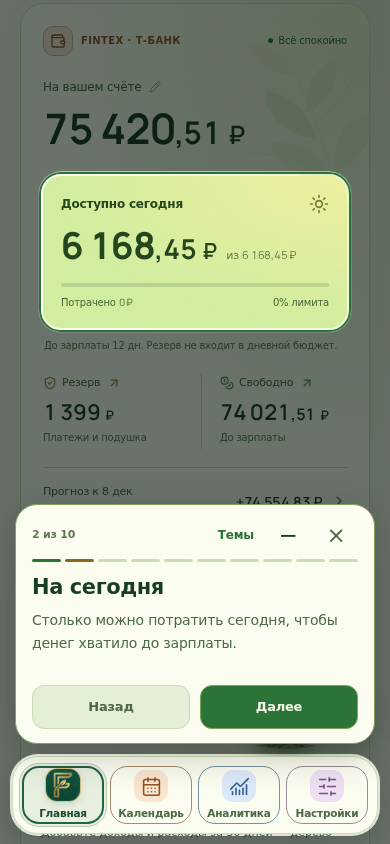
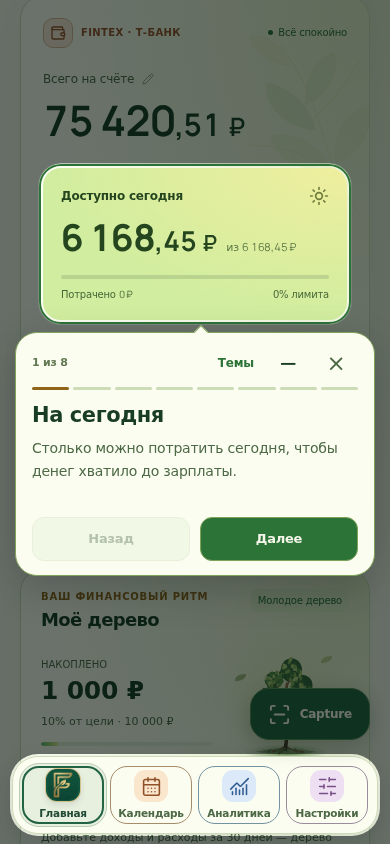
Streamline the tour, add contextual help and clarify money with mobile layout polish

diff --git a/app-tour.js b/app-tour.js
@@ -3,20 +3,18 @@
 (() => {
   'use strict';
   if (window.FintexTour) return;
-  const KEY = 'fp_tour_v1', CHECKPOINT = 'fp_tour_step_v1';
+  const KEY = 'fp_tour_v1', CHECKPOINT = 'fp_tour_step_v2';
   const media = matchMedia('(prefers-reduced-motion: reduce)');
   const root = document.documentElement;
   const steps = [
-    {tab:'home',chapter:'Начало',title:'Покажем, что где',text:'Разделы — внизу. Нажмите на любой, чтобы посмотреть.'},
-    {tab:'home',target:'#hero-daily-budget',chapter:'На сегодня',title:'На сегодня',text:'Столько можно потратить сегодня, чтобы денег хватило до зарплаты.'},
-    {tab:'home',target:'#hdr-plus-btn, #capture-fab',chapter:'Добавить',title:'Добавить операцию',text:'Нажмите «+», чтобы записать доход, расход или добавить чек.'},
-    {tab:'home',target:'.tx-feed-header',chapter:'История',title:'История операций',text:'Здесь все доходы и расходы. Нажмите на запись, чтобы открыть детали.'},
-    {tab:'calendar',target:'#cal-cells',chapter:'Календарь',title:'Календарь',text:'Выберите день, чтобы посмотреть траты и платежи.'},
-    {tab:'analytics',target:'.ap-cashflow, #view-analytics h2',chapter:'Аналитика',title:'Аналитика',text:'Здесь видно, на что уходят деньги и как меняются расходы.'},
-    {tab:'home',target:'#savings-goals .sg-card, #savings-goals .sg-heading, #savings-goals',chapter:'Цели',title:'Цели',text:'Создайте цель и откладывайте на неё деньги.'},
-    {tab:'home',target:'.ft-art-wrap',chapter:'Дерево',title:'Дерево',text:'Дерево меняется от доходов и расходов. Его можно потрясти.'},
-    {tab:'settings',target:'#settings-guide',chapter:'Настройки',title:'Настройки',text:'Здесь можно сменить тему и снова открыть экскурсию.'},
-    {tab:'settings',chapter:'Готово',title:'Всё готово',text:'Если что-то забудете, экскурсия есть в настройках.'}
+    {id:'budget',tab:'home',compact:'#hero-daily-budget .daily-budget-header, .daily-budget-label',target:'#hero-daily-budget',chapter:'На сегодня',title:'На сегодня',text:'Столько можно потратить сегодня, чтобы денег хватило до зарплаты.'},
+    {id:'add',tab:'home',target:'#hdr-plus-btn, #capture-fab',chapter:'Добавить',title:'Добавить операцию',text:'Нажмите «+», чтобы записать доход, расход или добавить чек.'},
+    {id:'history',tab:'home',target:'.tx-feed-header',chapter:'История',title:'История операций',text:'Здесь все доходы и расходы. Нажмите на запись, чтобы открыть детали.'},
+    {id:'calendar',tab:'calendar',compact:'#cal-cells .is-selected, #cal-cells .is-today, #view-calendar h2',target:'#cal-cells',chapter:'Календарь',title:'Календарь',text:'Выберите день, чтобы посмотреть траты и платежи.'},
+    {id:'analytics',tab:'analytics',compact:'.ap-cashflow-heading, #view-analytics h2',target:'.ap-cashflow',chapter:'Аналитика',title:'Аналитика',text:'Здесь видно, на что уходят деньги и как меняются расходы.'},
+    {id:'goals',tab:'home',compact:'#savings-goals .sg-heading',target:'#savings-goals .sg-card, #savings-goals .sg-heading, #savings-goals',chapter:'Цели',title:'Цели',text:'Создайте цель и откладывайте на неё деньги.'},
+    {id:'tree',tab:'home',compact:'#filely-financial-tree h2, .ft-art-wrap',target:'.ft-art-wrap',chapter:'Дерево',title:'Дерево',text:'Дерево меняется от доходов и расходов. Его можно потрясти.'},
+    {id:'settings',tab:'settings',compact:'#tour-replay, #tour-settings-title',target:'#settings-guide',chapter:'Настройки',title:'Настройки',text:'Здесь можно сменить тему и снова открыть экскурсию.'},
   ];
   let dialog, panel, focusBox, scrim, index = 0, active = false, epoch = 0, mapOpen = false, peeking = false;
   const visited = new Set();
@@ -25,23 +23,27 @@
   const save = value => { try { localStorage.setItem(KEY,value); } catch (_) { /* Tour still works without storage. */ } };
   function checkpoint(clear = false) {
     try {
-      if (clear) localStorage.removeItem(CHECKPOINT);
-      else if (automatic) localStorage.setItem(CHECKPOINT,String(index));
+      if (clear) { localStorage.removeItem(CHECKPOINT); localStorage.removeItem('fp_tour_step_v1'); }
+      else if (automatic) localStorage.setItem(CHECKPOINT,steps[index].id);
     } catch (_) { /* Navigation never depends on writable storage. */ }
   }
   function savedStep() {
     try {
-      const raw = localStorage.getItem(CHECKPOINT);
-      return /^(?:[0-9])$/.test(raw || '') ? Number(raw) : 0;
+      const id = localStorage.getItem(CHECKPOINT);
+      if (id !== null) return Math.max(0,steps.findIndex(step=>step.id===id));
+      // v70 used ten numeric positions, including intro/outro. Migrate only
+      // unfinished routes; existing complete/skipped users are not interrupted.
+      const legacy = localStorage.getItem('fp_tour_step_v1');
+      return /^[0-9]$/.test(legacy || '') ? Math.max(0,Math.min(7,Number(legacy)-1)) : 0;
     } catch (_) { return 0; }
   }
   const moves = () => !media.matches && !root.classList.contains('no-motion');
   const visible = el => el && !!el.getClientRects().length && getComputedStyle(el).visibility !== 'hidden';
-  function targetFor(step) {
+  function targetFor(step, maximum = Infinity) {
     // Comma-separated selectors are ordered fallbacks, not document order:
     // Prefer the + in the header and the compact goal heading.
-    for (const selector of (step.target || '').split(',').filter(Boolean)) {
-      const target = [...document.querySelectorAll(selector.trim())].find(visible);
+    for (const selector of [step.target,step.compact].filter(Boolean).join(',').split(',').filter(Boolean)) {
+      const target = [...document.querySelectorAll(selector.trim())].find(el=>visible(el)&&el.getBoundingClientRect().height<=maximum);
       if (target) return target;
     }
     return null;
@@ -84,7 +86,7 @@
   }
   function layout(scroll = false) {
     if (!active) return;
-    const step = steps[index], target = mapOpen ? null : targetFor(step);
+    const step = steps[index];
     const vw = document.documentElement.clientWidth, vh = innerHeight;
     const nav = document.querySelector('#fintex-navigation > div');
     const dock = visible(nav) ? nav.getBoundingClientRect() : null;
@@ -92,21 +94,31 @@
     const width = Math.min(360,vw-24);
     panel.style.width = `${width}px`;
     panel.style.maxHeight = `${Math.max(64,bottom-12)}px`;
-    const height = panel.offsetHeight, top = Math.max(12,bottom-height);
-    panel.style.left = `${(vw-width)/2}px`;
-    panel.style.top = `${top}px`;
+    const height = panel.offsetHeight;
+    let top = Math.max(12,bottom-height), placement = 'bottom';
+    const target = mapOpen ? null : targetFor(step,Math.max(24,bottom-height-24));
     let rect = target?.getBoundingClientRect();
     let fixed = false;
     for (let el = target; el; el = el.parentElement) if (getComputedStyle(el).position === 'fixed') { fixed = true; break; }
     if (scroll && target && !fixed) {
-      const desired = Math.max(12,(top-rect.height)/2);
+      const desired = Math.max(12,(bottom-height-rect.height-12)/2);
       window.scrollTo({top:Math.max(0,scrollY+rect.top-desired),behavior:'instant'});
       rect = target.getBoundingClientRect();
     }
+    // Prefer a nearby card, above or below the element, with no overlap.
+    if(rect && !mapOpen){
+      if(rect.bottom+12>=12&&rect.bottom+12+height<=bottom){top=rect.bottom+12;placement='below';}
+      else if(rect.top-height-12>=12){top=rect.top-height-12;placement='above';}
+    }
+    panel.style.left = `${(vw-width)/2}px`;
+    top = Math.max(12,Math.min(bottom-height,top));
+    panel.style.top = `${top}px`;
+    dialog.dataset.placement = placement;
+    const separated = rect && (rect.bottom+8<=top || top+height+8<=rect.top);
     // Separate cutouts keep both the real target AND the real section dock clear.
     let path = `M0,0H${vw}V${vh}H0z`;
     if(dock) path += rounded({x:dock.left-2,y:dock.top-2,width:dock.width+4,height:dock.height+4},28);
-    const ring = !!(rect && rect.width > 0 && rect.height > 0 && rect.top >= 8 && rect.bottom <= top-12 && rect.left >= 4 && rect.right <= vw-4);
+    const ring = !!(rect && rect.width > 0 && rect.height > 0 && rect.top >= 8 && rect.bottom <= bottom-4 && separated && rect.left >= 4 && rect.right <= vw-4);
     if (ring) {
       const pad = 4, radius = Math.min(24,parseFloat(getComputedStyle(target).borderTopLeftRadius)||8)+pad;
       const box = {x:rect.left-pad,y:rect.top-pad,width:rect.width+pad*2,height:rect.height+pad*2};
@@ -114,6 +126,7 @@
       path += rounded(box,radius);
     }
     focusBox.hidden = !ring;
+    panel.style.setProperty('--tour-pointer-x',`${rect?Math.max(18,Math.min(width-24,(rect.left+rect.right)/2-(vw-width)/2)):width/2}px`);
     scrim.setAttribute('d',path);
     dialog.dataset.spotlight = String(ring);
     dialog.querySelectorAll('[data-tour-tab]').forEach(button=>{
@@ -153,7 +166,7 @@
       button.querySelector('.tour-map-state').textContent=i===index?'•':visited.has(i)?'✓':'';
     });
     dialog.querySelector('#tour-back').disabled = index === 0;
-    dialog.querySelector('#tour-next').textContent = index === steps.length-1 ? 'Готово' : index === 0 ? 'Начать' : 'Далее';
+    dialog.querySelector('#tour-next').textContent = index === steps.length-1 ? 'Готово' : 'Далее';
     focusBox.hidden = true;
     if (document.querySelector('.nav-tab[aria-current="page"]')?.dataset.nav !== step.tab) window.goTab(step.tab);
     // Wait for real section/module layout, not a fake loading timer.
@@ -180,9 +193,11 @@
     active = false; epoch++; observer?.disconnect();
     cancelAnimationFrame(frame); frame = null; stopEffect();
     if (persist) { save(status); checkpoint(true); }
+    const topics = [...visited].map(i=>steps[i].id);
     dialog.close(); focusBox.hidden = true;
     root.classList.remove('fintex-tour-open');
     document.body.style.overflow = overflow;
+    if (persist) window.dispatchEvent(new CustomEvent('fintex:tour-finished',{detail:{topics}}));
     if (!restore) return;
     const tab = automatic ? 'home' : origin.tab;
     window.goTab(tab);
@@ -197,6 +212,7 @@
     window.FintexEntrance?.dismiss(true);
     window.cancelTxSwipe?.(); window.cancelGoalHold?.();
     automatic = auto; visited.clear();
+    window.dispatchEvent(new Event('fintex:tour-started'));
     origin = {tab:document.querySelector('.nav-tab[aria-current="page"]')?.dataset.nav || 'home',scroll:scrollY,focus:document.activeElement};
     overflow = document.body.style.overflow;
     document.body.style.overflow = 'hidden';
@@ -219,7 +235,7 @@
     dialog.querySelector('#tour-peek').addEventListener('click',()=>{if(mapOpen)toggleMap(false,false);setPeek(!peeking);});
     dialog.querySelector('.tour-sections').addEventListener('click',event=>{
       const button = event.target.closest('[data-tour-tab]');
-      if(button)go({home:1,calendar:4,analytics:5,settings:8}[button.dataset.tourTab]);
+      if(button)go({home:0,calendar:3,analytics:4,settings:7}[button.dataset.tourTab]);
     });
     dialog.querySelector('#tour-map-toggle').addEventListener('click',()=>toggleMap(!mapOpen));
     dialog.querySelector('#tour-map').addEventListener('click',event=>{

diff --git a/design-system.css b/design-system.css
@@ -2107,3 +2107,44 @@ body #fintex-tour[data-peek=true] .tour-panel { height: 64px; }
 body #fintex-tour .tour-tools #tour-skip, body #fintex-tour .tour-tools #tour-peek { width: 44px; padding: 0; font-size: 23px; font-weight: 400; }
 body #fintex-tour .tour-sections button { position: fixed; margin: 0; padding: 0; border: 0; border-radius: 20px; background: transparent !important; box-shadow: none; }
 body #fintex-tour .tour-sections button:focus-visible { outline: 2px solid var(--accent); outline-offset: -2px; }
+
+/* v71 · nearby help, short labels and small-screen polish. */
+body #fintex-tour .tour-panel { height: 244px; }
+body #fintex-tour[data-map=true] .tour-panel { height: 380px; }
+body #fintex-tour[data-peek=true] .tour-panel { height: 64px; }
+body #fintex-tour[data-spotlight=true]:not([data-map=true]):not([data-peek=true]) .tour-panel::before { content: ''; position: absolute; width: 10px; height: 10px; left: var(--tour-pointer-x,50%); background: var(--surface-1); transform: rotate(45deg); }
+body #fintex-tour[data-placement=below] .tour-panel::before { top: -6px; border-left: 1px solid var(--border-active); border-top: 1px solid var(--border-active); }
+body #fintex-tour[data-placement=above] .tour-panel::before { bottom: -6px; border-right: 1px solid var(--border-active); border-bottom: 1px solid var(--border-active); }
+body #fintex-tour[data-placement=bottom] .tour-panel::before { display: none; }
+body .context-help { display: flex; align-items: center; gap: 10px; padding: 8px 10px 8px 13px; margin-bottom: 12px; border: 1px solid var(--border-active); border-left: 3px solid var(--accent); border-radius: 13px; background: var(--accent-soft); color: var(--text-primary); }
+body .context-help p { flex: 1; min-width: 0; font-size: 12px; line-height: 1.55; }
+body .context-help button { flex-shrink: 0; min-width: 64px; min-height: 44px; padding: 8px; border-radius: 9px; color: var(--accent); font-size: 11px; font-weight: 700; }
+body .context-help button:focus-visible { outline: 2px solid var(--accent); outline-offset: -2px; }
+body .balance-detail-label { min-height: 30px; align-content: start; }
+body .balance-detail-note { line-height: 1.5; }
+body #modal-add :is(input,button), body .sg-dialog :is(input,select,textarea,button) { min-width: 0; }
+body #modal-add :is(input,button), body .sg-photo-actions > :is(label,button) { min-height: 44px; }
+body #modal-add input[type=date] { max-width: 58%; }
+body .sg-photo-actions { flex-wrap: wrap; }
+body .sg-detail-progress strong { overflow-wrap: anywhere; }
+body .ap-comparison strong { white-space: normal; overflow-wrap: anywhere; }
+body .ap-cashflow-label:has(.number-display:is([data-number-size=medium],[data-number-size=wide])) { grid-template-columns: 30px minmax(0,1fr); }
+body .ap-cashflow-label:has(.number-display:is([data-number-size=medium],[data-number-size=wide])) > strong { grid-column: 2; justify-self: start; text-align: left; }
+body .ap-cashflow-label:has(.number-display:is([data-number-size=medium],[data-number-size=wide])) .ap-cashflow-icon { grid-row: span 2; }
+@media(max-height:500px) {
+  body #fintex-tour .tour-panel { height: 208px; padding: 6px 14px 10px; }
+  body #tour-title { font-size: 18px; }
+  body #tour-text { font-size: 12px; line-height: 1.45; margin-top: 5px; }
+  body #fintex-tour .tour-progress { margin-bottom: 8px; }
+  body #fintex-tour .tour-actions { padding-top: 6px; }
+  body #fintex-tour[data-map=true] .tour-panel { height: 380px; }
+  body #fintex-tour[data-peek=true] .tour-panel { height: 64px; }
+}
+@media(max-width:360px) {
+  body #modal-add .modal-sheet { padding: 16px; }
+  body .balance-detail-label { font-size: 10px; gap: 4px; }
+}
+/* Keep the detail arrow on the label row, not alone on a wrapped line. */
+body .balance-detail-label { display: grid; grid-template-columns: 14px minmax(0,1fr) 12px; gap: 4px; align-items: start; }
+body .balance-detail-label > svg { width: 14px; height: 14px; margin-top: 2px; }
+body .balance-detail-label > .balance-detail-arrow { width: 12px; height: 12px; }

diff --git a/context-help.js b/context-help.js
@@ -1,0 +1,56 @@
+/* One short, non-modal hint at the point of use. Only help preferences are saved. */
+(() => {
+  'use strict';
+  const KEY = 'fp_help_v1';
+  const topics = {
+    calendar:{root:'#view-calendar',text:'Нажмите на день — увидите его траты и платежи.'},
+    analytics:{root:'#view-analytics',text:'Выберите период, чтобы сравнить доходы и расходы.'},
+    goals:{root:'#savings-goals',text:'Добавьте цель, затем пополняйте её.'},
+    settings:{root:'#view-settings',text:'В «Что где в Fintex» можно повторить экскурсию.'}
+  };
+  const seen = new Set();
+  try { const saved=JSON.parse(localStorage.getItem(KEY)||'[]');if(Array.isArray(saved))saved.forEach(k=>{if(Object.hasOwn(topics,k))seen.add(k);}); } catch (_) {}
+  let frame;
+  const visible = el => el && el.getClientRects().length && getComputedStyle(el).visibility!=='hidden';
+  const blocked = () => document.hidden || document.documentElement.classList.contains('fintex-tour-open') || !!document.querySelector('dialog[open], [id^="modal-"]:not(.hidden), #onboarding-screen:not(.hidden), #returning-splash:not(.hidden)');
+  function remember(key){seen.add(key);try{localStorage.setItem(KEY,JSON.stringify([...seen]));}catch(_){} }
+  function clear(){document.querySelectorAll('[data-context-help]').forEach(el=>el.remove());}
+  function show(key){
+    if(!topics[key]||seen.has(key)||blocked())return;
+    const mount=document.querySelector(topics[key].root);
+    if(!visible(mount))return;
+    const card=document.createElement('aside');card.className='context-help';card.dataset.contextHelp=key;card.setAttribute('aria-label','Подсказка');
+    const text=document.createElement('p');text.textContent=topics[key].text;
+    const close=document.createElement('button');close.type='button';close.textContent='Понятно';
+    close.addEventListener('click',()=>{
+      // Do not drop keyboard focus onto body when removing its focused button.
+      const next=[...mount.querySelectorAll('button,input,select,summary,[tabindex="0"]')].find(el=>!card.contains(el)&&visible(el));
+      const focused=card.contains(document.activeElement);card.remove();if(focused)next?.focus({preventScroll:true});
+    });
+    card.append(text,close);mount.prepend(card);remember(key);
+  }
+  function checkGoals(){
+    if(blocked()||document.querySelector('.nav-tab[aria-current="page"]')?.dataset.nav!=='home')return;
+    const mount=document.querySelector(topics.goals.root);if(!visible(mount))return;
+    const r=mount.getBoundingClientRect(),dock=document.getElementById('fintex-navigation')?.getBoundingClientRect().top||innerHeight;
+    if(r.top>=0&&r.top<dock-70)show('goals');
+  }
+  function scheduleGoals(){if(frame)return;frame=requestAnimationFrame(()=>{frame=null;checkGoals();});}
+  function boot(){
+    window.addEventListener('fintex:tabchange',event=>{
+      clear();const name=event.detail.name;
+      if(name==='home')scheduleGoals();else requestAnimationFrame(()=>show(name));
+    });
+    window.addEventListener('fintex:tour-started',clear);
+    window.addEventListener('fintex:tour-finished',event=>{
+      for(const id of event.detail.topics||[])if(Object.hasOwn(topics,id))remember(id);
+      clear();
+    });
+    // Only observe the goals section itself; no global DOM polling/observer loop.
+    const goals=document.querySelector(topics.goals.root);
+    if(goals&&window.IntersectionObserver)new IntersectionObserver(scheduleGoals,{threshold:[0,.2]}).observe(goals);
+    window.addEventListener('scroll',scheduleGoals,{passive:true});
+    window.addEventListener('pagehide',()=>{cancelAnimationFrame(frame);frame=null;clear();});
+  }
+  if(document.readyState==='loading')document.addEventListener('DOMContentLoaded',boot,{once:true});else boot();
+})();

diff --git a/index.html b/index.html
@@ -18,7 +18,7 @@
   <script src="./appearance.js?v=62"></script>
   <script src="./cloud.js?v=39"></script>
   <link rel="stylesheet" href="./styles.css?v=22" />
-  <link rel="stylesheet" href="./design-system.css?v=70" />
+  <link rel="stylesheet" href="./design-system.css?v=71" />
 </head>
 <body class="max-w-md mx-auto min-h-screen relative select-none">
 
@@ -263,7 +263,7 @@
             <span id="status-badge" class="balance-status" data-tone="calm">Всё спокойно</span>
           </div>
           <button type="button" onclick="openBalanceModal()" class="balance-total" aria-label="Изменить баланс">
-            <span class="balance-label">На вашем счёте <i data-lucide="pencil" class="w-3 h-3"></i></span>
+            <span class="balance-label">Всего на счёте <i data-lucide="pencil" class="w-3 h-3"></i></span>
             <span id="hero-balance" class="money-val balance-amount">0 ₽</span>
           </button>
           <div class="daily-budget" id="hero-daily-budget">
@@ -281,15 +281,15 @@
           <div id="hero-limit-explain" class="balance-explanation">Свободные средства распределены до зарплаты</div>
           <div class="balance-breakdown">
             <button type="button" onclick="openGoalDetailsModal()" class="balance-detail">
-              <span class="balance-detail-label"><i data-lucide="shield-check" class="w-3.5 h-3.5"></i> Резерв <i data-lucide="arrow-up-right" class="balance-detail-arrow w-3.5 h-3.5"></i></span>
+              <span class="balance-detail-label"><i data-lucide="shield-check" class="w-3.5 h-3.5"></i> Отложено <i data-lucide="arrow-up-right" class="balance-detail-arrow w-3.5 h-3.5"></i></span>
               <span id="hero-reserved" class="money-val balance-detail-amount">0 ₽</span>
-              <span class="balance-detail-note">Платежи и подушка</span>
+              <span class="balance-detail-note">На платежи и цели</span>
               <span id="hero-res-pct" class="hidden"></span>
             </button>
             <button type="button" onclick="openForecastExplainModal()" class="balance-detail">
-              <span class="balance-detail-label"><i data-lucide="coins" class="w-3.5 h-3.5"></i> Свободно <i data-lucide="arrow-up-right" class="balance-detail-arrow w-3.5 h-3.5"></i></span>
+              <span class="balance-detail-label"><i data-lucide="coins" class="w-3.5 h-3.5"></i> Можно тратить <i data-lucide="arrow-up-right" class="balance-detail-arrow w-3.5 h-3.5"></i></span>
               <span id="hero-free-pool" class="money-val balance-detail-amount">0 ₽</span>
-              <span class="balance-detail-note">До зарплаты</span>
+              <span class="balance-detail-note">Без платежей и целей</span>
               <span id="hero-free-pct" class="hidden"></span>
             </button>
           </div>
@@ -1881,7 +1881,7 @@
   <script src="./finance-math.js?v=58"></script>
   <script src="./life-cost.js?v=30"></script>
   <script src="./numerals.js?v=66"></script>
-  <script src="./app.js?v=67"></script>
+  <script src="./app.js?v=71"></script>
   <script src="./navigation.js?v=57"></script>
   <script src="./interface-motion.js?v=59"></script>
   <script src="./modal-accessibility.js?v=60"></script>
@@ -1904,6 +1904,7 @@
   <script src="./capture.js?v=68"></script>
   <script src="./behavior-model.js?v=44"></script>
   <script src="./behavior.js?v=54"></script>
-  <script src="./app-tour.js?v=70"></script>
+  <script src="./app-tour.js?v=71"></script>
+  <script src="./context-help.js?v=71"></script>
 </body>
 </html>

diff --git a/app.js b/app.js
@@ -772,8 +772,8 @@ function renderAll(animateFromZero = false) {
 
   const explainEl = document.getElementById('hero-limit-explain');
   explainEl.textContent = m.freePool === 0
-    ? 'Средства защищены для платежей и накоплений.'
-    : `До зарплаты ${m.days} дн. Резерв не входит в дневной бюджет.`;
+    ? 'На траты пока не осталось свободных денег.'
+    : `На ${m.days} дн. до зарплаты. Отложенное не тратим.`;
 
   renderBalanceCardFeedback(m, hasAnomaly);
 

diff --git a/README.md b/README.md
@@ -414,3 +414,15 @@ npm run test:ui
 Карточка уменьшена с 280 до 240px, фон затемнён слабее. Контур следует фактическому прямоугольнику элемента с отступом 4px и его скруглением. Аналитика и цели выделяют содержательный блок/карточку, а не только заголовок. Кнопка «−» сворачивает подсказку в узкую строку, освобождая место для больших элементов на маленьком экране; «+» возвращает текст. Разделы остаются видимыми и доступными в обоих режимах и на карте тем.
 
 Новые регрессии: доступность и точное совпадение кнопок dock, реальные переходы без изменений данных, зазор между карточкой и навигацией, полный календарь на 320px при свёрнутой подсказке, перестроение SVG/контура после resize. Дополнительное превью: `docs/tour-calendar-narrow-preview.png`.
+
+### Быстрая помощь и удобство на телефоне — v71
+
+Выполнены пять согласованных изменений:
+
+1. **Без лишних экранов:** восемь полезных шагов вместо десяти. Первый сразу показывает дневную сумму, последний — настройки; «Готово» закрывает маршрут без отдельного финального экрана.
+2. **Подсказка рядом:** карточка выбирает свободное место над/под элементом, небольшой указатель связывает их. Контур и видимый dock сохранены. Если большой блок не помещается вместе с текстом, выбирается его значимая часть (день календаря, заголовок графика, кнопка повторного запуска), а не обрезанный прямоугольник. Сворачивать подсказку вручную больше не обязательно; «−» оставлен для осмотра экрана. Очень короткий горизонтальный экран использует компактный стиль.
+3. **Помощь по месту:** `context-help.js` показывает по одной короткой встроенной подсказке при первом открытии календаря, аналитики, настроек и при достижении блока целей. Без модального окна, автофокуса и прокрутки. «Понятно» закрывает; показанные темы хранятся в `fp_help_v1`. Во время экскурсии/настройки/открытых форм помощь не возникает; уже объяснённые в экскурсии темы не повторяются. При отказе хранилища работает память текущей страницы.
+4. **Понятнее суммы:** «Всего на счёте», «Отложено — на платежи и цели», «Можно тратить — без платежей и целей». Дневная сумма остаётся отдельной. Отступы и значки выровнены; арифметика баланса, резерва и доступных денег не менялась.
+5. **Аудит 320px:** все шесть палитр, главная, аналитика, сравнение с прошлым периодом, расход/доход, просмотр/редактирование целей и короткий экран ввода. Поля не выходят за края, кнопки ввода/сохранения доступны, большие суммы в аналитике корректно переносятся. Формы не сохранялись во время проверок.
+
+Незавершённые старые маршруты мигрируют с числового `fp_tour_step_v1` на устойчивый идентификатор темы `fp_tour_step_v2`. Удаление вступления/финала не сдвигает пользователя на чужую тему. Новые регрессии — `tests/help-polish.spec.cjs`, обновлены двадцать проверок экскурсии. Превью главной/помощи: `docs/home-money-labels-preview.png`, `docs/context-help-analytics-preview.png`.
